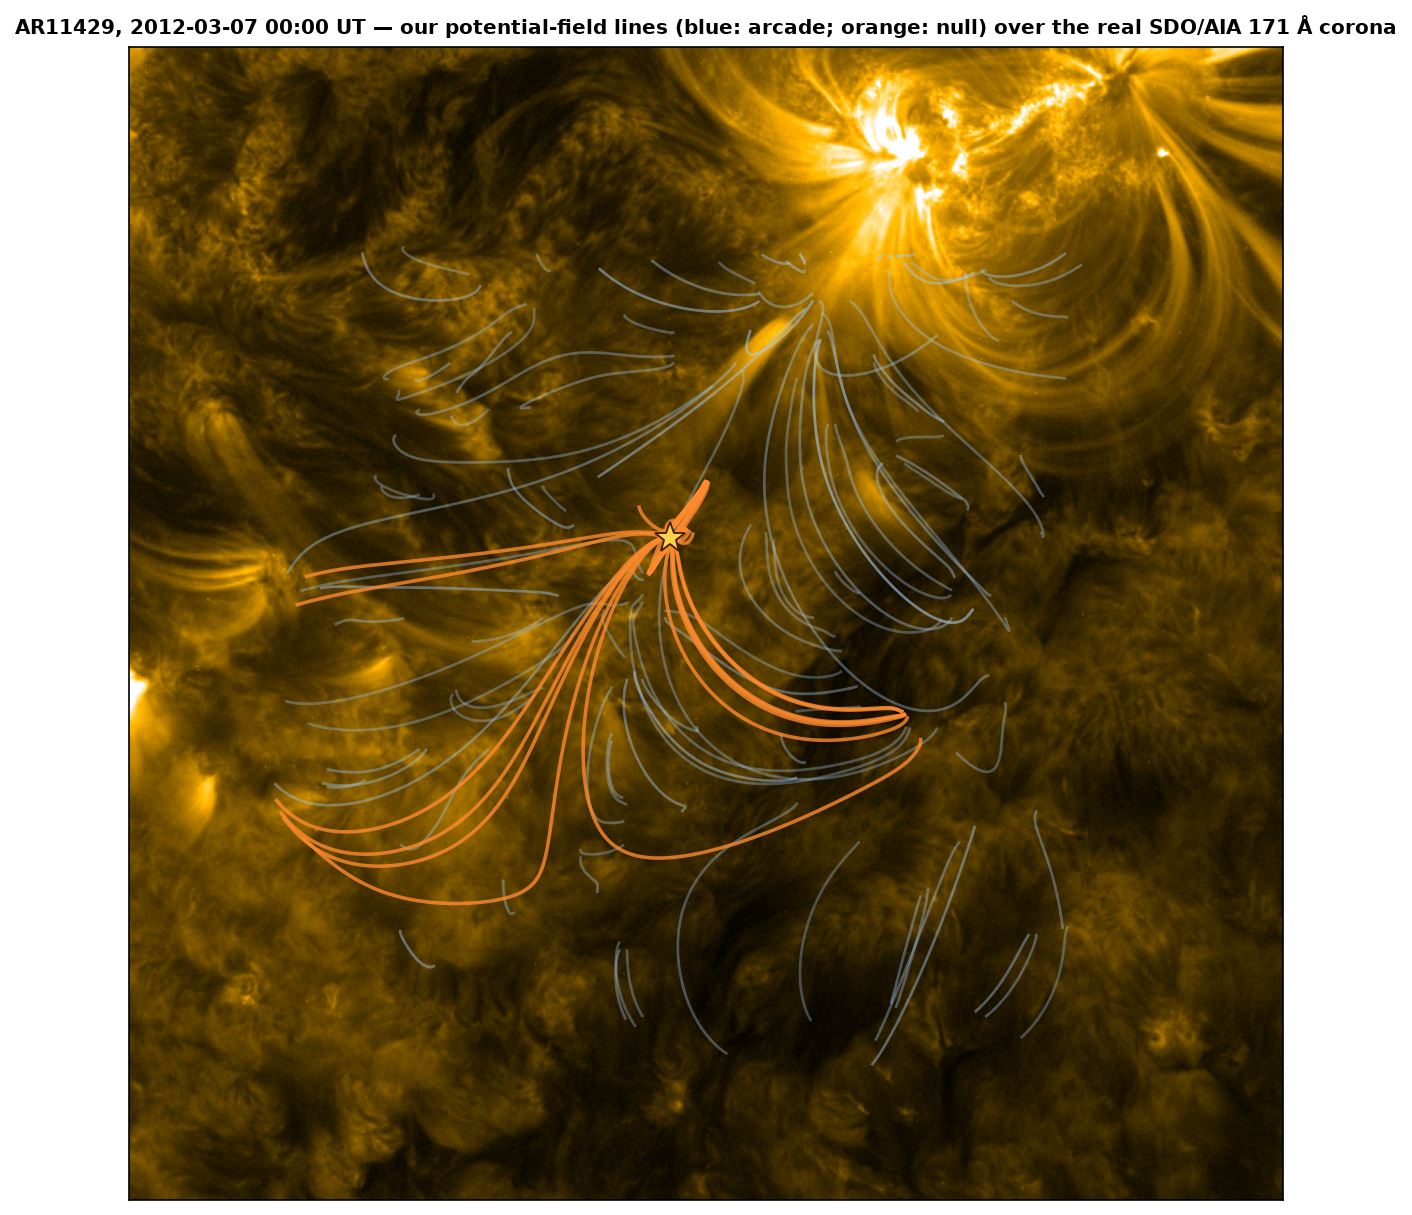
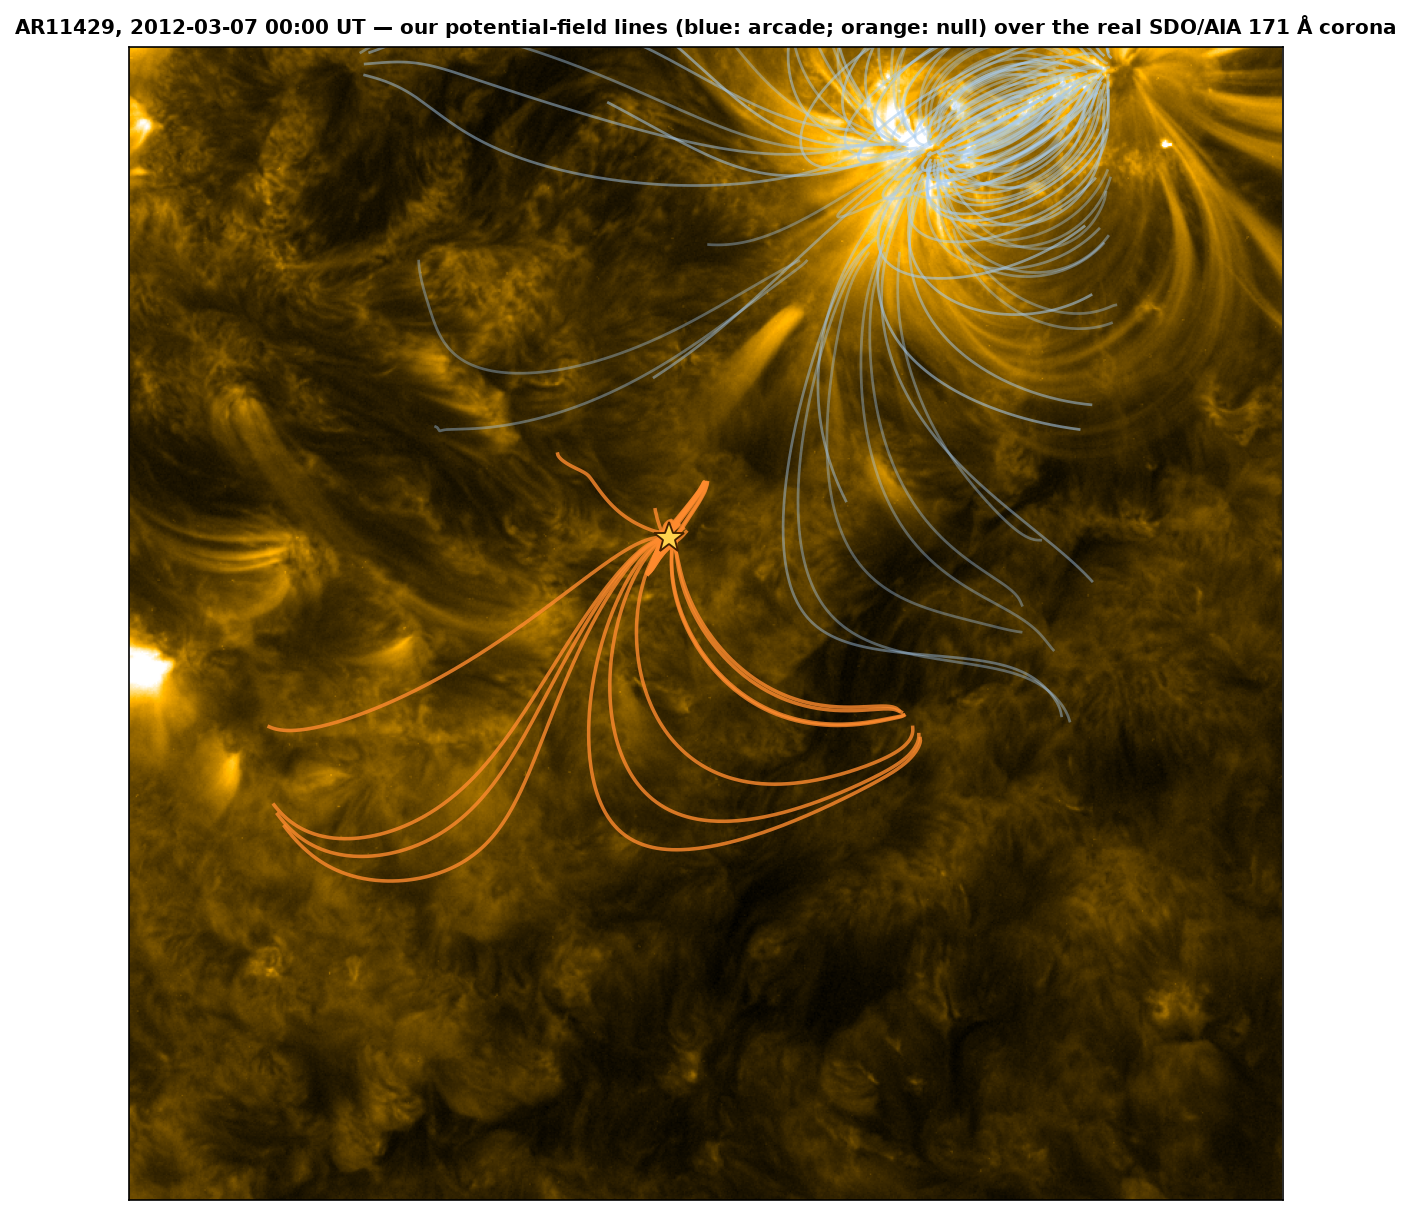
research+posts: AIA overlay registration verified and locked
The user was right that the overlay didn't sit on the actual location. Root
causes found by a quantitative check (|B| contours projected onto the AIA
frame, artifacts/regcheck_*.png): (1) the data-driven solar radius estimate
overshot the header value by 2.5% (off-limb noise inflates the limb mask) --
geometry now taken exactly from the FITS headers of both instruments;
(2) after null-recentering, the percentile-based arcade seeding scattered
seeds over weak network flux, drawing arcs where the EUV shows nothing --
seeding is now physical (|B| >= 250 G), rooting the arcade in real plage.
The overlay now uses TWO stated volumes of the same magnetogram: the arcade
traced in the flux-centred window (contains the full loop system, drapes
over the observed EUV fans) and the null's fan in the null-centred window
(room to sweep) -- captioned as such. Axes clamped to the image (plotted
lines beyond the crop had autoscaled a white band into the frame).

diff --git a/research/preferred-directions/scripts/render_real_assets.py b/research/preferred-directions/scripts/render_real_assets.py
@@ -639,11 +639,18 @@ def aia_overlay():
     acx, acy = float(ahdr["CRPIX1"]) - 1, float(ahdr["CRPIX2"]) - 1
     arsun = float(ahdr["RSUN_OBS"]) / float(ahdr["CDELT1"])   # px per R_sun
 
-    # HMI disk geometry (as in skeleton): centre + radius of the 1024 magnetogram
+    # HMI disk geometry from the FITS HEADER (exact; the data-driven limb estimate
+    # overshoots the radius by ~2.5% -- off-limb noise -- enough to shift the AR by
+    # ~15 AIA px), scaled 4096 -> 1024
+    hmi_f = sorted((ROOT / "artifacts" / "hmi").glob("hmi.m_45s.2012*"))[0]
+    hh = fits.open(hmi_f); hh.verify("silentfix")
+    hhdr = next(x.header for x in hh if getattr(x, "data", None) is not None
+                and x.data.ndim == 2)
+    s4 = 1024.0 / hhdr["NAXIS1"]
+    hcx = (hhdr["CRPIX1"] - 1) * s4
+    hcy = (hhdr["CRPIX2"] - 1) * s4
+    hR = hhdr["RSUN_OBS"] / hhdr["CDELT1"] * s4
     bz = dict(load_magnetograms())["2012-03-07"]
-    ys, xs = np.where(np.abs(bz) > 0)
-    hcy, hcx = (ys.min() + ys.max()) / 2, (xs.min() + xs.max()) / 2
-    hR = ((ys.max() - ys.min()) + (xs.max() - xs.min())) / 4
 
     def hmi_to_aia(xh, yh):
         """HMI 1024-px coords -> AIA px via normalised disk coordinates.
@@ -656,18 +663,27 @@ def aia_overlay():
         return (acx - (np.asarray(xh) - hcx) / hR * arsun,
                 acy - (np.asarray(yh) - hcy) / hR * arsun)
 
-    # null-recentered survey extrapolation (same volume the skeleton uses)
+    # TWO volumes of the same magnetogram: the null and its fan live in the
+    # null-recentered window (room in every direction); the arcade is traced in the
+    # flux-centred window, which fully contains the AR loop system the EUV shows.
+    from scipy.ndimage import zoom as _zoom
     cut, B, nulls, p0, (cy, cx) = _ar11429_volume()
     ny, nx, nz, _ = B.shape
+    cyf, cxf = 640, 640
+    cutf = _zoom(bz[cyf - WIN // 2:cyf + WIN // 2, cxf - WIN // 2:cxf + WIN // 2],
+                 CUT / WIN, order=1)
+    Bf, _Af = solar.potential_field(cutf, NZ, dz=1.0)
     rng = np.random.default_rng(2)
-    thr = np.percentile(np.abs(cut), 93.0)
-    iy, ix = np.where(np.abs(cut) >= thr)
-    w = np.abs(cut)[iy, ix]
-    sel = rng.choice(len(ix), size=min(120, len(ix)), replace=False, p=w / w.sum())
+    # PHYSICAL seed threshold (250 G): roots the arcade in real plage/spot flux --
+    # a percentile threshold on the null-centred window scatters seeds across weak
+    # network field and draws arcs over quiet regions the EUV does not light up
+    iy, ix = np.where(np.abs(cutf) >= 250.0)
+    w = np.abs(cutf)[iy, ix]
+    sel = rng.choice(len(ix), size=min(140, len(ix)), replace=False, p=w / w.sum())
     arcade = []
     for j in sel:
-        sgn = +1.0 if cut[iy[j], ix[j]] > 0 else -1.0
-        ln = _trace(B, np.array([ix[j], iy[j], 1.5]), sgn, ds=0.35, steps=1600)
+        sgn = +1.0 if cutf[iy[j], ix[j]] > 0 else -1.0
+        ln = _trace(Bf, np.array([ix[j], iy[j], 1.5]), sgn, ds=0.35, steps=1600)
         if len(ln) > 10:
             arcade.append((ln, w[j] / w.max()))
     skel = []
@@ -678,10 +694,12 @@ def aia_overlay():
             if len(ln) > 8:
                 skel.append(ln)
 
-    def box_to_aia(ln):
+    def box_to_aia(ln, cyw=None, cxw=None):
         """Box coords (cut px + height) -> AIA px, incl. line-of-sight parallax."""
-        xh = cx - WIN / 2 + ln[:, 0] * (WIN / CUT)
-        yh = cy - WIN / 2 + ln[:, 1] * (WIN / CUT)
+        cyw = cy if cyw is None else cyw
+        cxw = cx if cxw is None else cxw
+        xh = cxw - WIN / 2 + ln[:, 0] * (WIN / CUT)
+        yh = cyw - WIN / 2 + ln[:, 1] * (WIN / CUT)
         ax_, ay_ = hmi_to_aia(xh, yh)
         # apparent shift of height h toward the limb, in the AIA frame's orientation
         rx = (ax_ - acx) / arsun; ry = (ay_ - acy) / arsun
@@ -699,7 +717,7 @@ def aia_overlay():
     ax.imshow(np.clip(crop, 0, vmax) ** 0.5, origin="lower", cmap="sdoaia171")
     ax.set_xticks([]); ax.set_yticks([])
     for ln, wgt in arcade:
-        xa, ya = box_to_aia(ln)
+        xa, ya = box_to_aia(ln, cyf, cxf)
         ax.plot(xa - x_lo, ya - y_lo, color="#a9cdf0", lw=1.3,
                 alpha=0.30 + 0.40 * wgt)
     for ln in skel:
@@ -708,6 +726,7 @@ def aia_overlay():
     xn, yn = box_to_aia(p0[None, :])
     ax.plot(xn - x_lo, yn - y_lo, marker="*", ms=15, mfc="#ffd34d",
             mec="#442200", mew=0.9)
+    ax.set_xlim(0, crop.shape[1]); ax.set_ylim(0, crop.shape[0])   # clamp to image
     ax.set_title("AR11429, 2012-03-07 00:00 UT — our potential-field lines (blue: "
                  "arcade; orange: null) over the real SDO/AIA 171 Å corona",
                  fontsize=9.5, fontweight="bold")

diff --git a/_posts/2026-08-27-forbidden-directions-transition-state.md b/_posts/2026-08-27-forbidden-directions-transition-state.md
@@ -82,7 +82,11 @@ numerical zero test with no scale attached. The growth vector has a *law* for it
     arcade; orange: the null's spine and fan, ★ the null). The two datasets are
     independent: AIA sees plasma, HMI measured the surface field the extrapolation grew
     from — and cross-registering them required correcting HMI's 180° camera rotation
-    (CROTA2) against AIA's upright frame. Departures are expected and honest: a potential
+    (CROTA2) against AIA's upright frame, with the disk geometry taken from the FITS
+    headers. The arcade is traced in the flux-centred extrapolation window (which
+    contains the full loop system) and the null's fan in the null-centred window
+    (which gives its lines room) — two potential-field volumes of the same
+    magnetogram. Departures are expected and honest: a potential
     field carries no currents, and this region was anything but current-free (it flared
     X5.4 the same day).
   </figcaption>
